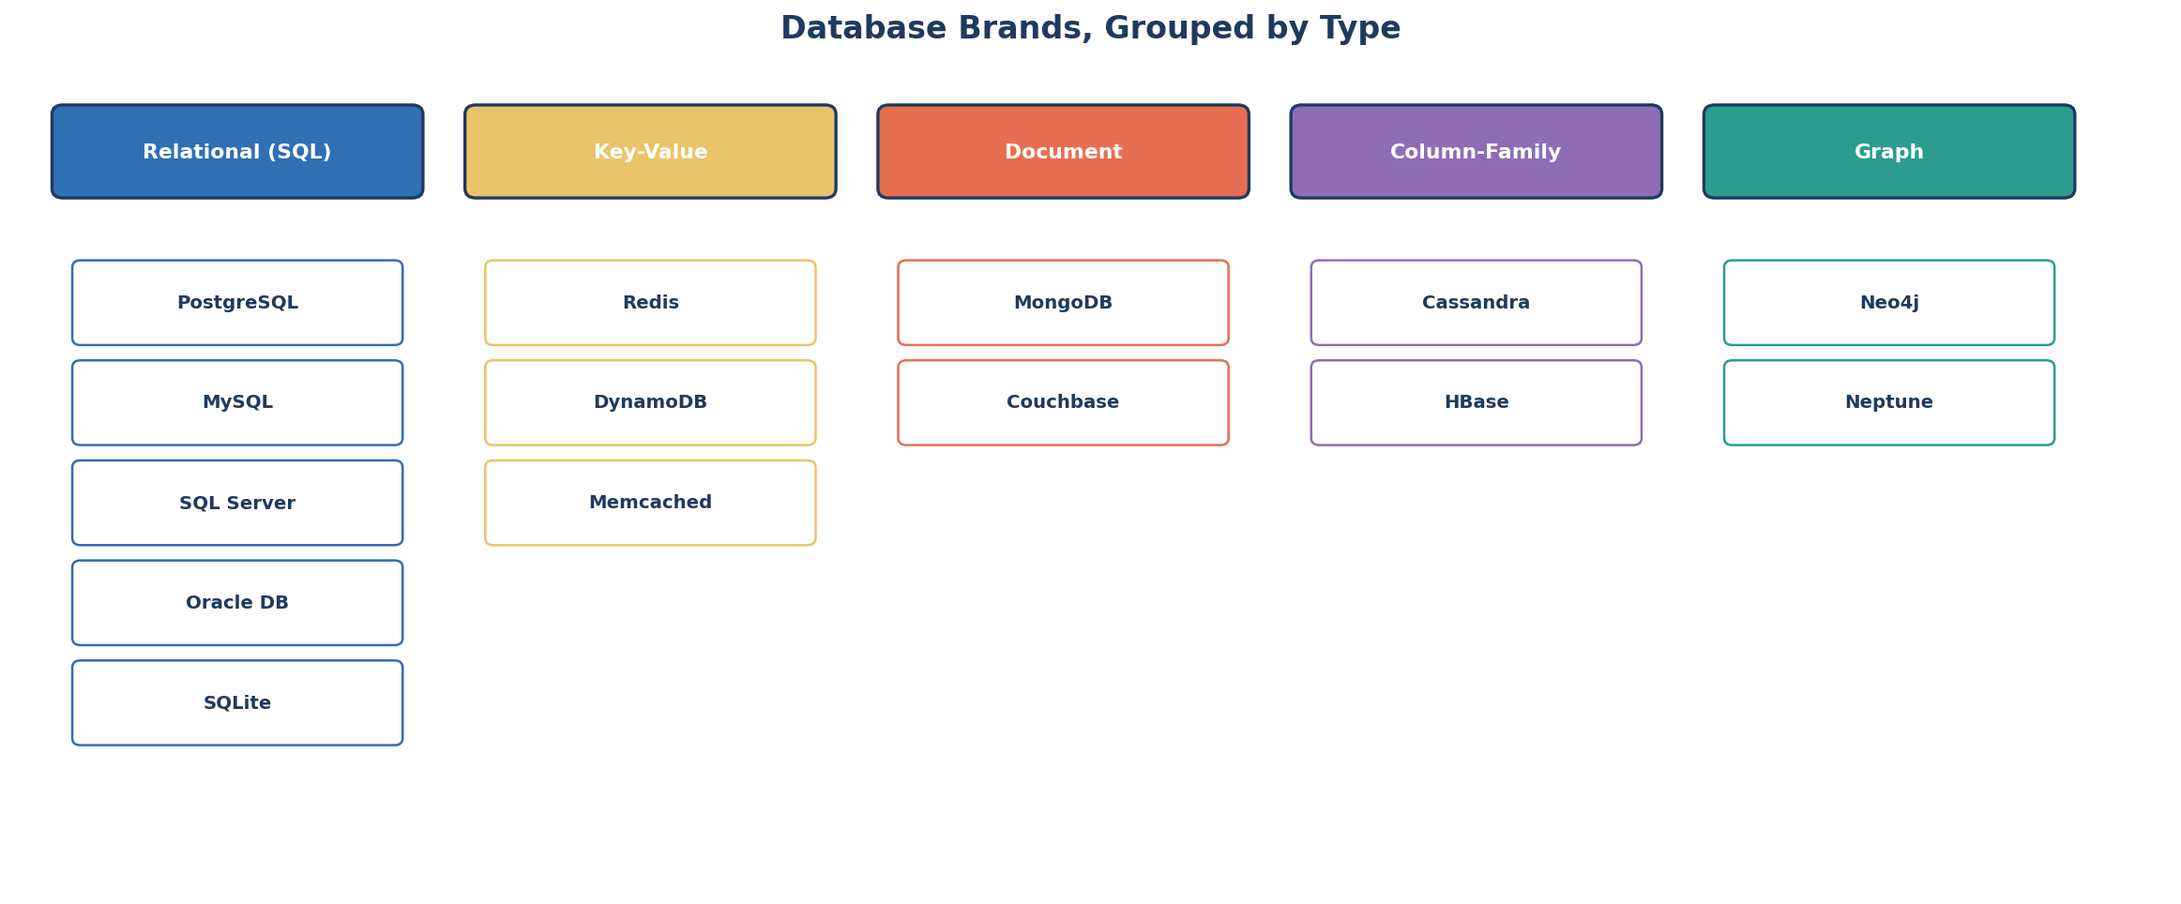
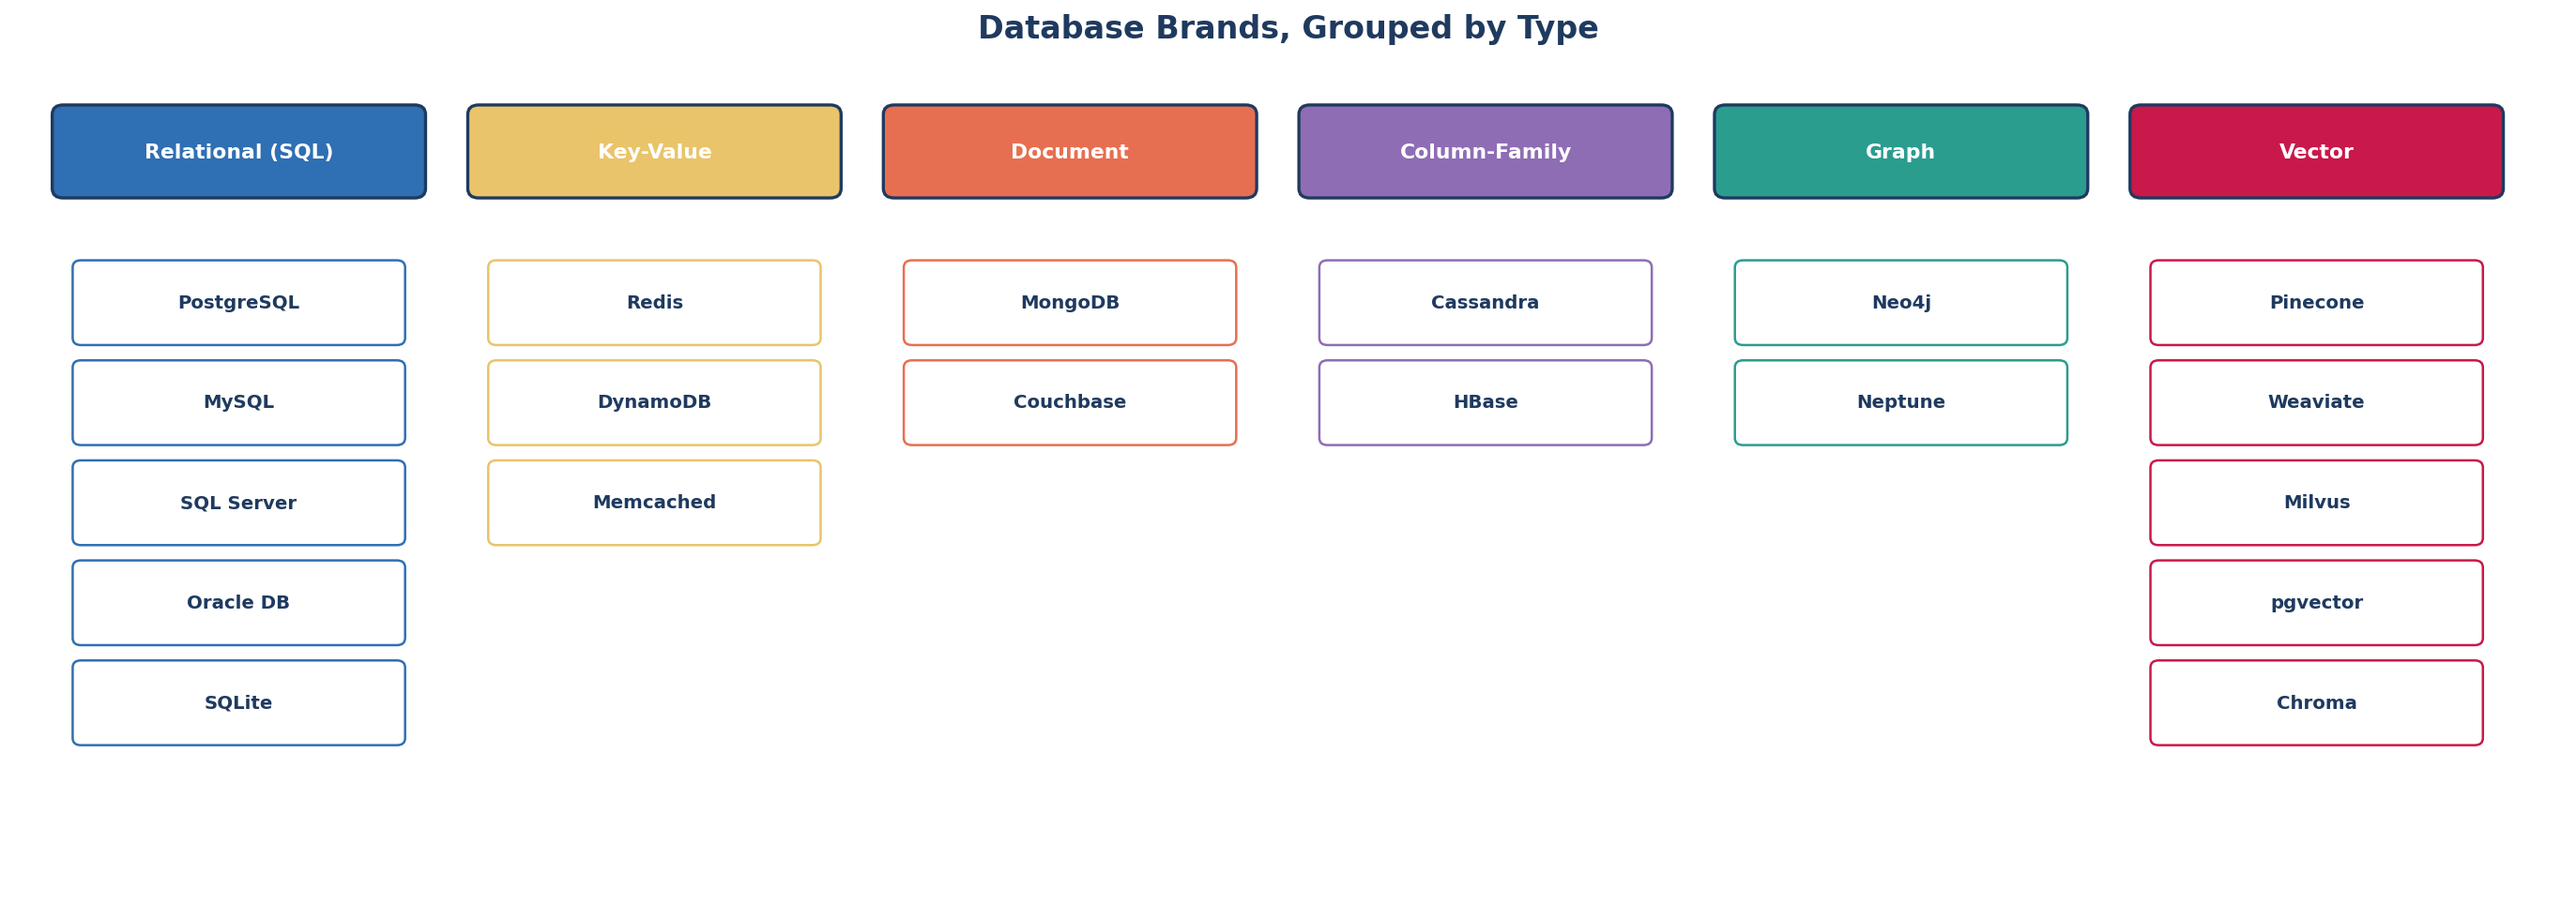
Add support for Vector databases in lessons and update related charts

diff --git a/assets/images/generate_database_types.py b/assets/images/generate_database_types.py
@@ -1,5 +1,5 @@
 """
-Generates the "5 types of databases" overview chart for Lesson 1.3.
+Generates the "6 types of databases" overview chart for Lesson 1.3.
 Run: python3 generate_database_types.py
 """
 import matplotlib
@@ -16,9 +16,10 @@ TEAL = "#2a9d8f"
 ORANGE = "#e76f51"
 GOLD = "#e9c46a"
 PURPLE = "#8e6db5"
+CRIMSON = "#c9184a"
 GREY = "#6c757d"
 
-fig, axes = plt.subplots(1, 5, figsize=(19, 4.6))
+fig, axes = plt.subplots(1, 6, figsize=(22.5, 4.6))
 
 # ---------------------------------------------------------------------------
 # Panel 1: Relational (SQL)
@@ -127,7 +128,30 @@ for name, (x,y) in nodes.items():
 ax.set_title("Graph", fontsize=12.5, fontweight="bold", color=NAVY, pad=10)
 ax.text(3, 0.4, "Relationships are\nstored directly", ha="center", fontsize=8.5, color=GREY)
 
-fig.suptitle("5 Common Types of Databases", fontsize=16, fontweight="bold", color=NAVY, y=1.06)
+# ---------------------------------------------------------------------------
+# Panel 6: Vector (for AI / ML — similarity search over embeddings)
+# ---------------------------------------------------------------------------
+ax = axes[5]
+ax.set_xlim(0, 6); ax.set_ylim(0, 6); ax.axis("off")
+random.seed(11)
+# a cloud of "embedding" points
+cloud = [(random.uniform(0.8, 5.2), random.uniform(0.9, 5.1)) for _ in range(22)]
+for x, y in cloud:
+    ax.scatter([x], [y], s=28, color="#d9c7cf", edgecolor=CRIMSON, linewidth=0.6, zorder=1)
+
+query = (3.0, 3.0)
+neighbors = sorted(cloud, key=lambda p: (p[0]-query[0])**2 + (p[1]-query[1])**2)[:4]
+for nx, ny in neighbors:
+    ax.plot([query[0], nx], [query[1], ny], color=CRIMSON, lw=1.1, linestyle="--", zorder=1)
+    ax.scatter([nx], [ny], s=55, color=CRIMSON, edgecolor=NAVY, linewidth=0.8, zorder=2)
+
+ax.scatter([query[0]], [query[1]], s=140, color=NAVY, edgecolor=NAVY, marker="*", zorder=3)
+ax.text(query[0], query[1]+0.55, "query", ha="center", fontsize=8, color=NAVY, fontweight="bold")
+
+ax.set_title("Vector", fontsize=12.5, fontweight="bold", color=NAVY, pad=10)
+ax.text(3, 0.4, "Finds the closest\nmatches by meaning", ha="center", fontsize=8.5, color=GREY)
+
+fig.suptitle("6 Common Types of Databases", fontsize=16, fontweight="bold", color=NAVY, y=1.06)
 plt.tight_layout()
 plt.savefig("database-types-overview.png", dpi=150, bbox_inches="tight", facecolor="white")
 plt.close()

diff --git a/assets/images/generate_database_brands.py b/assets/images/generate_database_brands.py
@@ -18,16 +18,19 @@ GOLD = "#e9c46a"
 PURPLE = "#8e6db5"
 GREY = "#6c757d"
 
+CRIMSON = "#c9184a"
+
 columns = [
     ("Relational (SQL)", BLUE, ["PostgreSQL", "MySQL", "SQL Server", "Oracle DB", "SQLite"]),
     ("Key-Value", GOLD, ["Redis", "DynamoDB", "Memcached"]),
     ("Document", ORANGE, ["MongoDB", "Couchbase"]),
     ("Column-Family", PURPLE, ["Cassandra", "HBase"]),
     ("Graph", TEAL, ["Neo4j", "Neptune"]),
+    ("Vector", CRIMSON, ["Pinecone", "Weaviate", "Milvus", "pgvector", "Chroma"]),
 ]
 
-fig, ax = plt.subplots(figsize=(15.6, 6.5))
-ax.set_xlim(0, 15.9); ax.set_ylim(0, 7); ax.axis("off")
+fig, ax = plt.subplots(figsize=(18.4, 6.5))
+ax.set_xlim(0, 18.7); ax.set_ylim(0, 7); ax.axis("off")
 
 col_w = 2.7
 gap = 0.35

diff --git a/01-fundamentals/03-types-of-databases.md b/01-fundamentals/03-types-of-databases.md
@@ -21,6 +21,7 @@ flowchart TD
     NOSQL --> DOC[Document]
     NOSQL --> COL[Column-Family]
     NOSQL --> GRAPH[Graph]
+    NOSQL --> VEC[Vector]
 ```
 
 ## Step 2 — Relational (SQL)
@@ -66,11 +67,30 @@ reconstructed from IDs like in relational tables.
 **Best for**: questions that are really about connections — "who knows who,"
 "what influenced what."
 
-## Step 7 — Picture all five together
+## Step 7 — Vector
 
-![5 Common Types of Databases](../assets/images/database-types-overview.png)
+This one's newer, and exists specifically for **AI/ML**. An AI model turns
+text, images, or audio into a list of numbers called an **embedding** (or
+"vector") — numbers that capture *meaning*, so similar things end up as
+similar numbers. A vector database stores millions of these embeddings and
+answers one specific question extremely fast: **"which stored items are most
+similar to this one?"**
 
-## Step 8 — Quick recap table
+**Best for**: AI features — semantic search ("find documents *about* this
+topic," not just matching exact words), recommendation systems, chatbots that
+need to recall relevant facts (a pattern called **RAG** — Retrieval-Augmented
+Generation).
+
+## Step 8 — Picture all six together
+
+![6 Common Types of Databases](../assets/images/database-types-overview.png)
+
+Notice the Vector panel: dots represent stored embeddings, the star is a new
+"query," and the dashed lines connect it to its **nearest neighbors** — the
+most similar matches. That "find what's nearby" idea is the entire point of a
+vector database.
+
+## Step 9 — Quick recap table
 
 | Type | Stores data as | Best for |
 |---|---|---|
@@ -79,6 +99,7 @@ reconstructed from IDs like in relational tables.
 | Document | Nested JSON-like records | Flexible, varying-shape data |
 | Column-Family | Sparse columns per row | Massive write volume |
 | Graph | Nodes + edges | Relationship-heavy questions |
+| Vector | Embeddings (lists of numbers) | AI/ML similarity search |
 
 This course focuses mainly on **Relational (SQL)** first, since it's the most
 widely used foundation — the other types get their own deeper lessons later.

diff --git a/01-fundamentals/04-database-brands.md b/01-fundamentals/04-database-brands.md
@@ -2,7 +2,7 @@
 
 # 1.4 Database Brands
 
-In [Lesson 1.3](03-types-of-databases.md) we covered the 5 *types* of
+In [Lesson 1.3](03-types-of-databases.md) we covered the 6 *types* of
 databases. Now let's meet the actual products — the "brands" — you'll
 encounter in real jobs and projects. One step at a time.
 
@@ -56,11 +56,25 @@ use. Two important labels you'll see attached to every brand:
 | **Neo4j** | Neo4j Inc. | The most widely used graph database |
 | **Amazon Neptune** | Amazon (AWS) | Fully managed graph database |
 
-## Step 7 — See them all grouped together
+## Step 7 — Vector brands (for AI/ML)
+
+| Brand | Made by | Known for |
+|---|---|---|
+| **Pinecone** | Pinecone Systems | Fully managed, one of the most popular for AI apps |
+| **Weaviate** | Weaviate B.V. (open-source) | Open-source, built-in hybrid (keyword + vector) search |
+| **Milvus** | Zilliz (open-source) | Open-source, built for very large-scale vector search |
+| **pgvector** | Open-source | Not a separate database — an extension that adds vector search *into PostgreSQL* |
+| **Chroma** | Open-source | Lightweight, popular for local AI prototypes |
+
+> `pgvector` is worth remembering specifically: it means you don't always need
+> a brand-new database just to add AI features — you can add vector search
+> directly to a PostgreSQL database you're already using.
+
+## Step 8 — See them all grouped together
 
 ![Database Brands, Grouped by Type](../assets/images/database-brands.png)
 
-## Step 8 — A simple rule for picking a brand, not just a type
+## Step 9 — A simple rule for picking a brand, not just a type
 
 Once you know the *type* you need ([Lesson 1.3](03-types-of-databases.md)),
 picking a specific brand usually comes down to:
